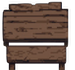
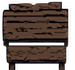
forest redrawing

diff --git a/js/RoomFactory.js b/js/RoomFactory.js
@@ -166,7 +166,31 @@ class RoomFactory {
             room.drawDirt(67, 62, 3, 5)
             room.Add(TilesFactory.CreateHouse2(73, 87.5))
             room.Add(TilesFactory.CreateHouse1(62, 87.5))
-            room.drawLineForest(71, 60, 0, 20)
+            room.Add(TilesFactory.CreateBigOak(71, 57))
+            room.Add(TilesFactory.CreateBigOak(71, 60))
+            room.Add(TilesFactory.CreateBigOak(71, 64))
+            room.Add(TilesFactory.CreateBigOak(71, 68))
+            room.Add(TilesFactory.CreateBigOak(71, 72))
+            room.Add(TilesFactory.CreateBigOak(71, 76))
+            room.Add(TilesFactory.CreateBigOak(71, 80))
+            room.Add(TilesFactory.CreateBigOak(74, 57))
+            room.Add(TilesFactory.CreateBigBirch(73.5, 60.5))
+            room.Add(TilesFactory.CreateBigBirch(73, 63))
+            room.Add(TilesFactory.CreateBigOak(74.5, 65.5))
+            room.Add(TilesFactory.CreateBigBirch(74, 68.4))
+            room.Add(TilesFactory.CreateBigOak(74.5, 71))
+            room.Add(TilesFactory.CreateBigOak(74, 74))
+            room.Add(TilesFactory.CreateBigBirch(74.4, 80))
+            room.Add(TilesFactory.CreateBigBirch(77.5, 81))
+            room.Add(TilesFactory.CreateBigBirch(76.5, 54))
+            room.Add(TilesFactory.CreateBigBirch(76.7, 56.8))
+            room.Add(TilesFactory.CreateBigOak(76, 60))
+            room.Add(TilesFactory.CreateBigBirch(75.5, 63))
+            room.Add(TilesFactory.CreateBigBirch(77.7, 71.5))
+            room.Add(TilesFactory.CreateBigBirch(77.2, 74))
+            room.Add(TilesFactory.CreateBigBirch(76.4, 76.6))
+            room.Add(TilesFactory.CreateBigOak(77, 68))
+            room.drawBigForest(78, 59, 7, 20)
             //Trail
             room.drawDirt(58, 70, 1, 23)
             room.drawRandomDirtGrassR(57, 70, 0, 26)
@@ -195,8 +219,14 @@ class RoomFactory {
             room.Add(TilesFactory.CreateTumbleTree2(79, 83))
             room.Add(TilesFactory.CreateTumbleTree3(85, 88))
             room.Add(TilesFactory.CreateTumbleTree2(89.5, 87.5))
-            room.drawBigForest(73, 58, 8, 22)
-            room.drawBigForest(80, 78, 10, 3)
+            room.Add(TilesFactory.CreateBigOak(73, 78))
+            room.Add(TilesFactory.CreateBigOak(77, 78))
+            room.Add(TilesFactory.CreateBigOak(80.5, 78))
+            room.Add(TilesFactory.CreateBigOak(80, 80))
+            room.Add(TilesFactory.CreateBigOak(84, 78))
+            room.Add(TilesFactory.CreateBigOak(88, 78))
+            room.Add(TilesFactory.CreateBigOak(92, 78))
+            room.Add(TilesFactory.CreateBigOak(96, 78))
             room.drawNecropolis(58, 63, 0, 0)
             room.drawNecropolis(58, 64, 8, 5)
             room.drawNecropolis(52, 63, 5, 32)
@@ -344,8 +374,22 @@ class RoomFactory {
             room.drawRandomDirtGrassB(77, 48, 3, 0)
             room.drawFen(77, 51.5, 21, 0)
             room.drawFence7(76.8, 42, 0, 10)
-            room.drawLineForest(77, 51, 20, 0)
-            room.drawBigForest(77, 52, 20, 3)
+            //room.drawLineForest(77, 51, 20, 0)
+            //room.drawBigForest(77, 52, 20, 3)
+            room.Add(TilesFactory.CreateBigOak(76, 51))
+            room.Add(TilesFactory.CreateBigOak(80, 51))
+            room.Add(TilesFactory.CreateBigOak(84, 51))
+            room.Add(TilesFactory.CreateBigOak(88, 51))
+            room.Add(TilesFactory.CreateBigOak(92, 51))
+            room.Add(TilesFactory.CreateBigOak(96, 51))
+            room.Add(TilesFactory.CreateBigOak(79, 54))
+            room.Add(TilesFactory.CreateBigBirch(81, 54))
+            room.Add(TilesFactory.CreateBigOak(83, 54))
+            room.Add(TilesFactory.CreateBigBirch(86, 54))
+            room.Add(TilesFactory.CreateBigBirch(90, 54))
+            room.Add(TilesFactory.CreateBigBirch(88, 55))
+            room.Add(TilesFactory.CreateBigOak(94, 54))
+            room.Add(TilesFactory.CreateBigBirch(98, 54))
             room.Add(TilesFactory.CreateBigOak(91, 79.5))
             room.Add(TilesFactory.CreateBigOak(93.5, 81))
             room.Add(TilesFactory.CreateBigOak(96, 80))
